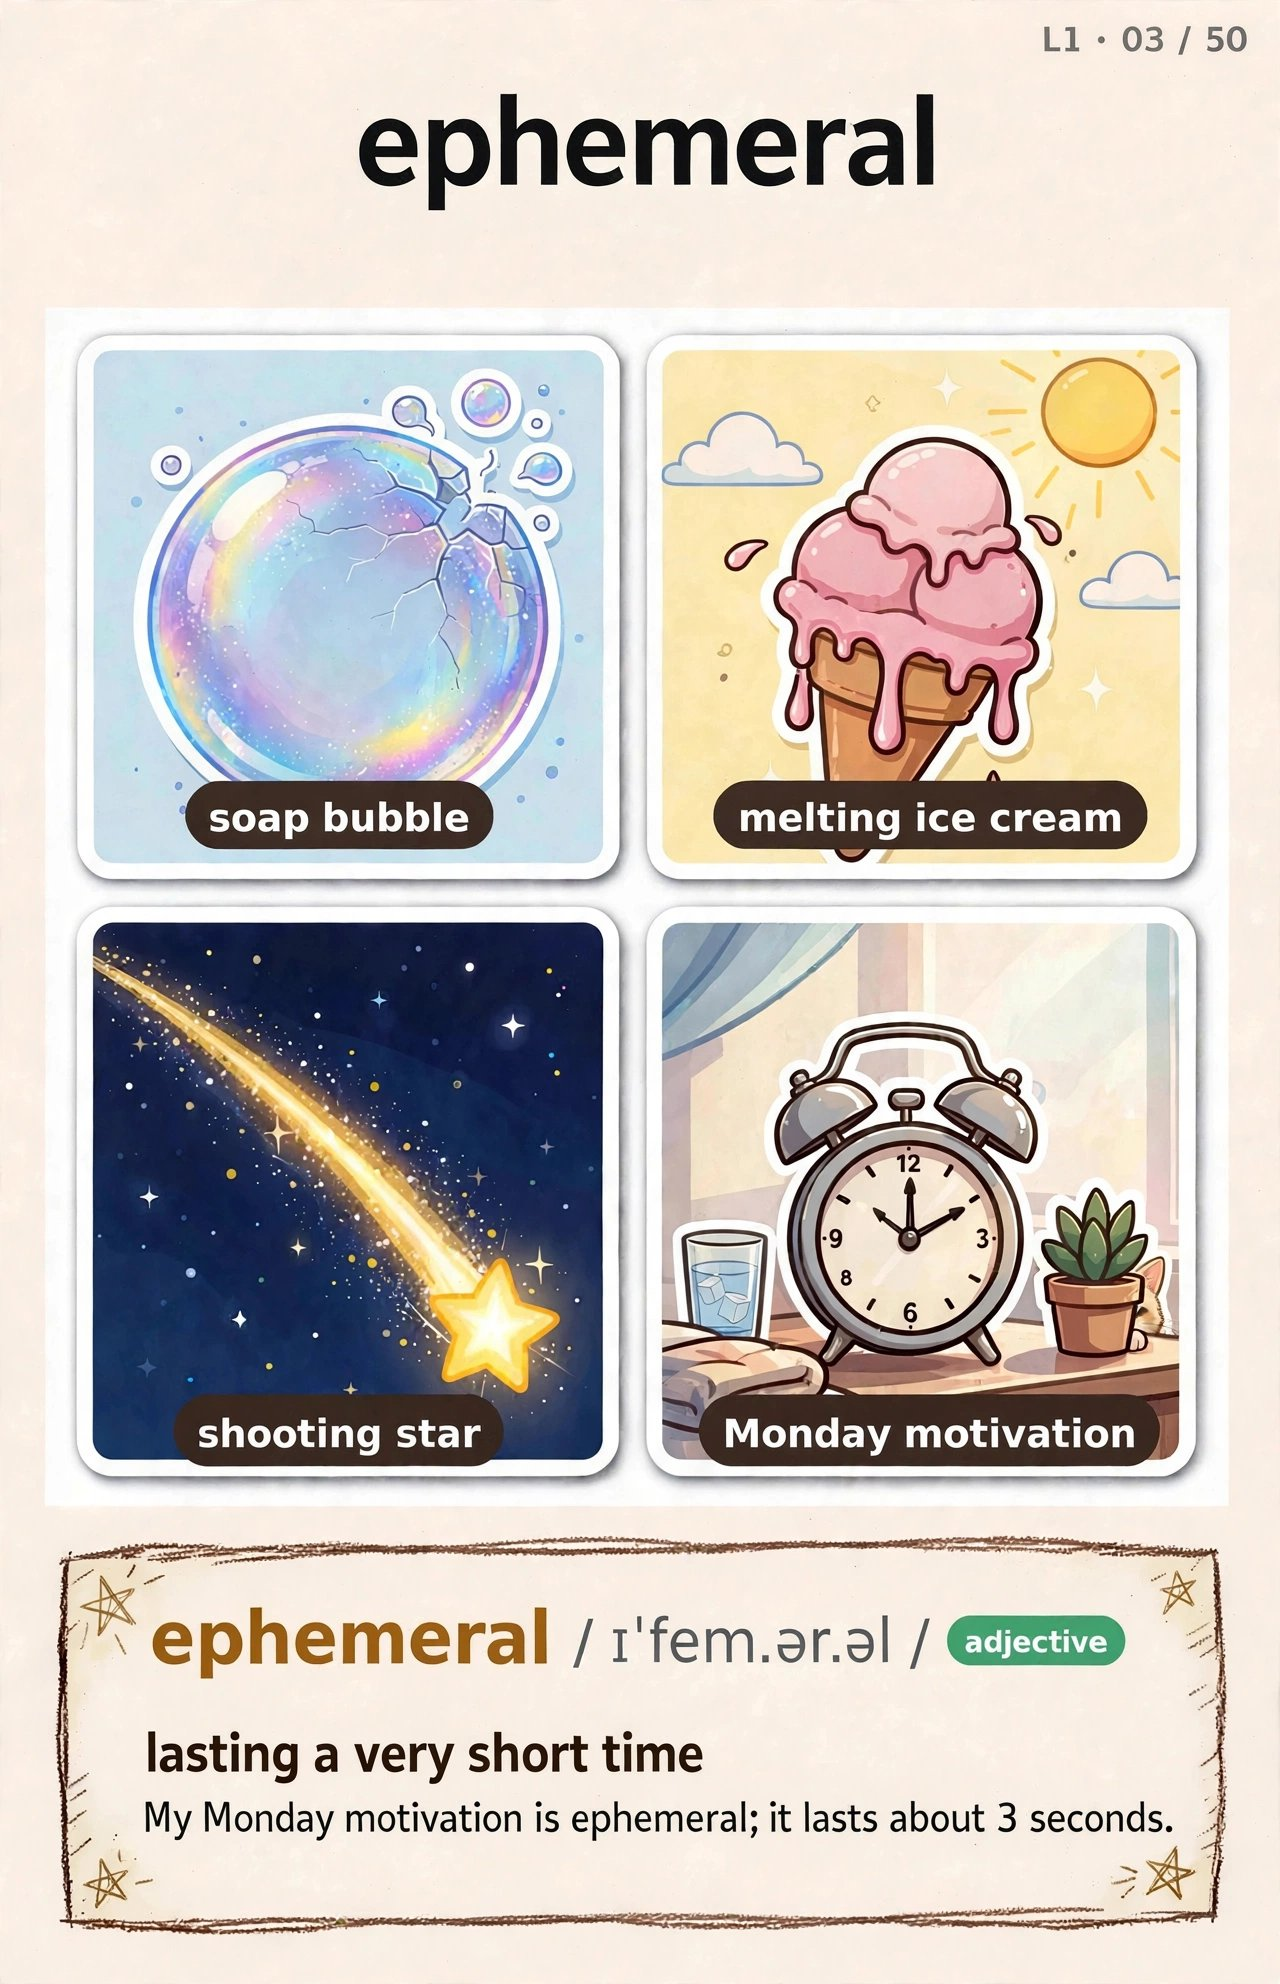
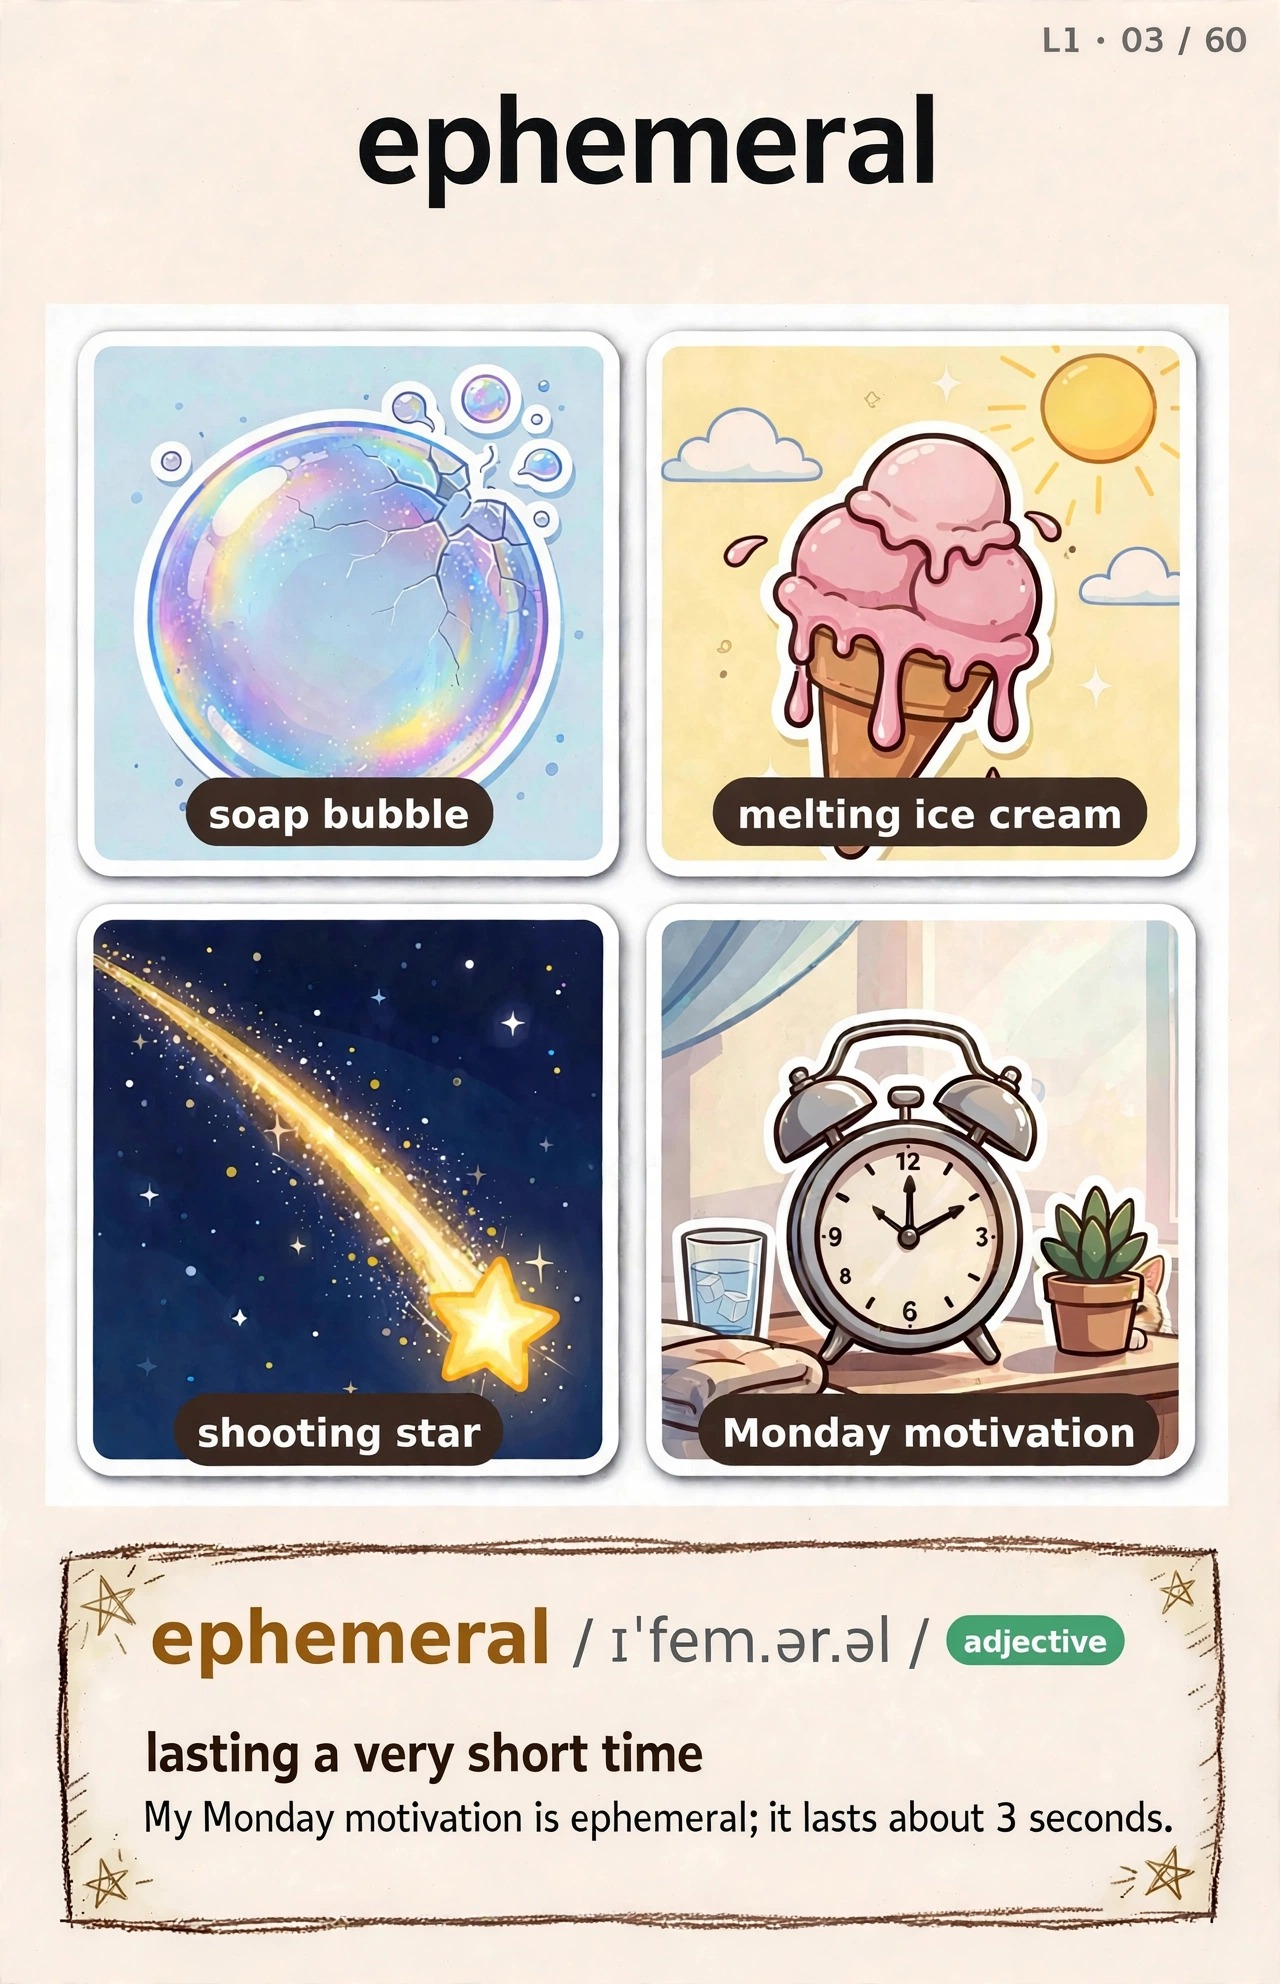
vocab: batch 1 (cards 01-10) — new /60 fronts for 01-03, add 04-10 with audio

diff --git a/vocab/index.html b/vocab/index.html
@@ -133,6 +133,13 @@ const CARDS = [
   { word: "procrastinate", audio: "audio/procrastinate.mp3", front: "cards/procrastinate-front.jpg", back: "cards/procrastinate-back.jpg" },
   { word: "serendipity",  audio: "audio/serendipity.mp3",  front: "cards/serendipity-front.jpg",  back: "cards/serendipity-back.jpg" },
   { word: "ephemeral",    audio: "audio/ephemeral.mp3",    front: "cards/ephemeral-front.jpg",    back: "cards/ephemeral-back.jpg" },
+  { word: "dilemma",      audio: "audio/dilemma.mp3",      front: "cards/dilemma-front.jpg",      back: "cards/dilemma-front.jpg" },
+  { word: "chaos",        audio: "audio/chaos.mp3",        front: "cards/chaos-front.jpg",        back: "cards/chaos-front.jpg" },
+  { word: "irony",        audio: "audio/irony.mp3",        front: "cards/irony-front.jpg",        back: "cards/irony-front.jpg" },
+  { word: "myth",         audio: "audio/myth.mp3",         front: "cards/myth-front.jpg",         back: "cards/myth-front.jpg" },
+  { word: "genius",       audio: "audio/genius.mp3",       front: "cards/genius-front.jpg",       back: "cards/genius-front.jpg" },
+  { word: "disaster",     audio: "audio/disaster.mp3",     front: "cards/disaster-front.jpg",     back: "cards/disaster-front.jpg" },
+  { word: "legend",       audio: "audio/legend.mp3",       front: "cards/legend-front.jpg",       back: "cards/legend-front.jpg" },
 ];
 let learnDeck = [], li = 0;
 let quizDeck = [], qi = 0, missed = [], score = 0;
